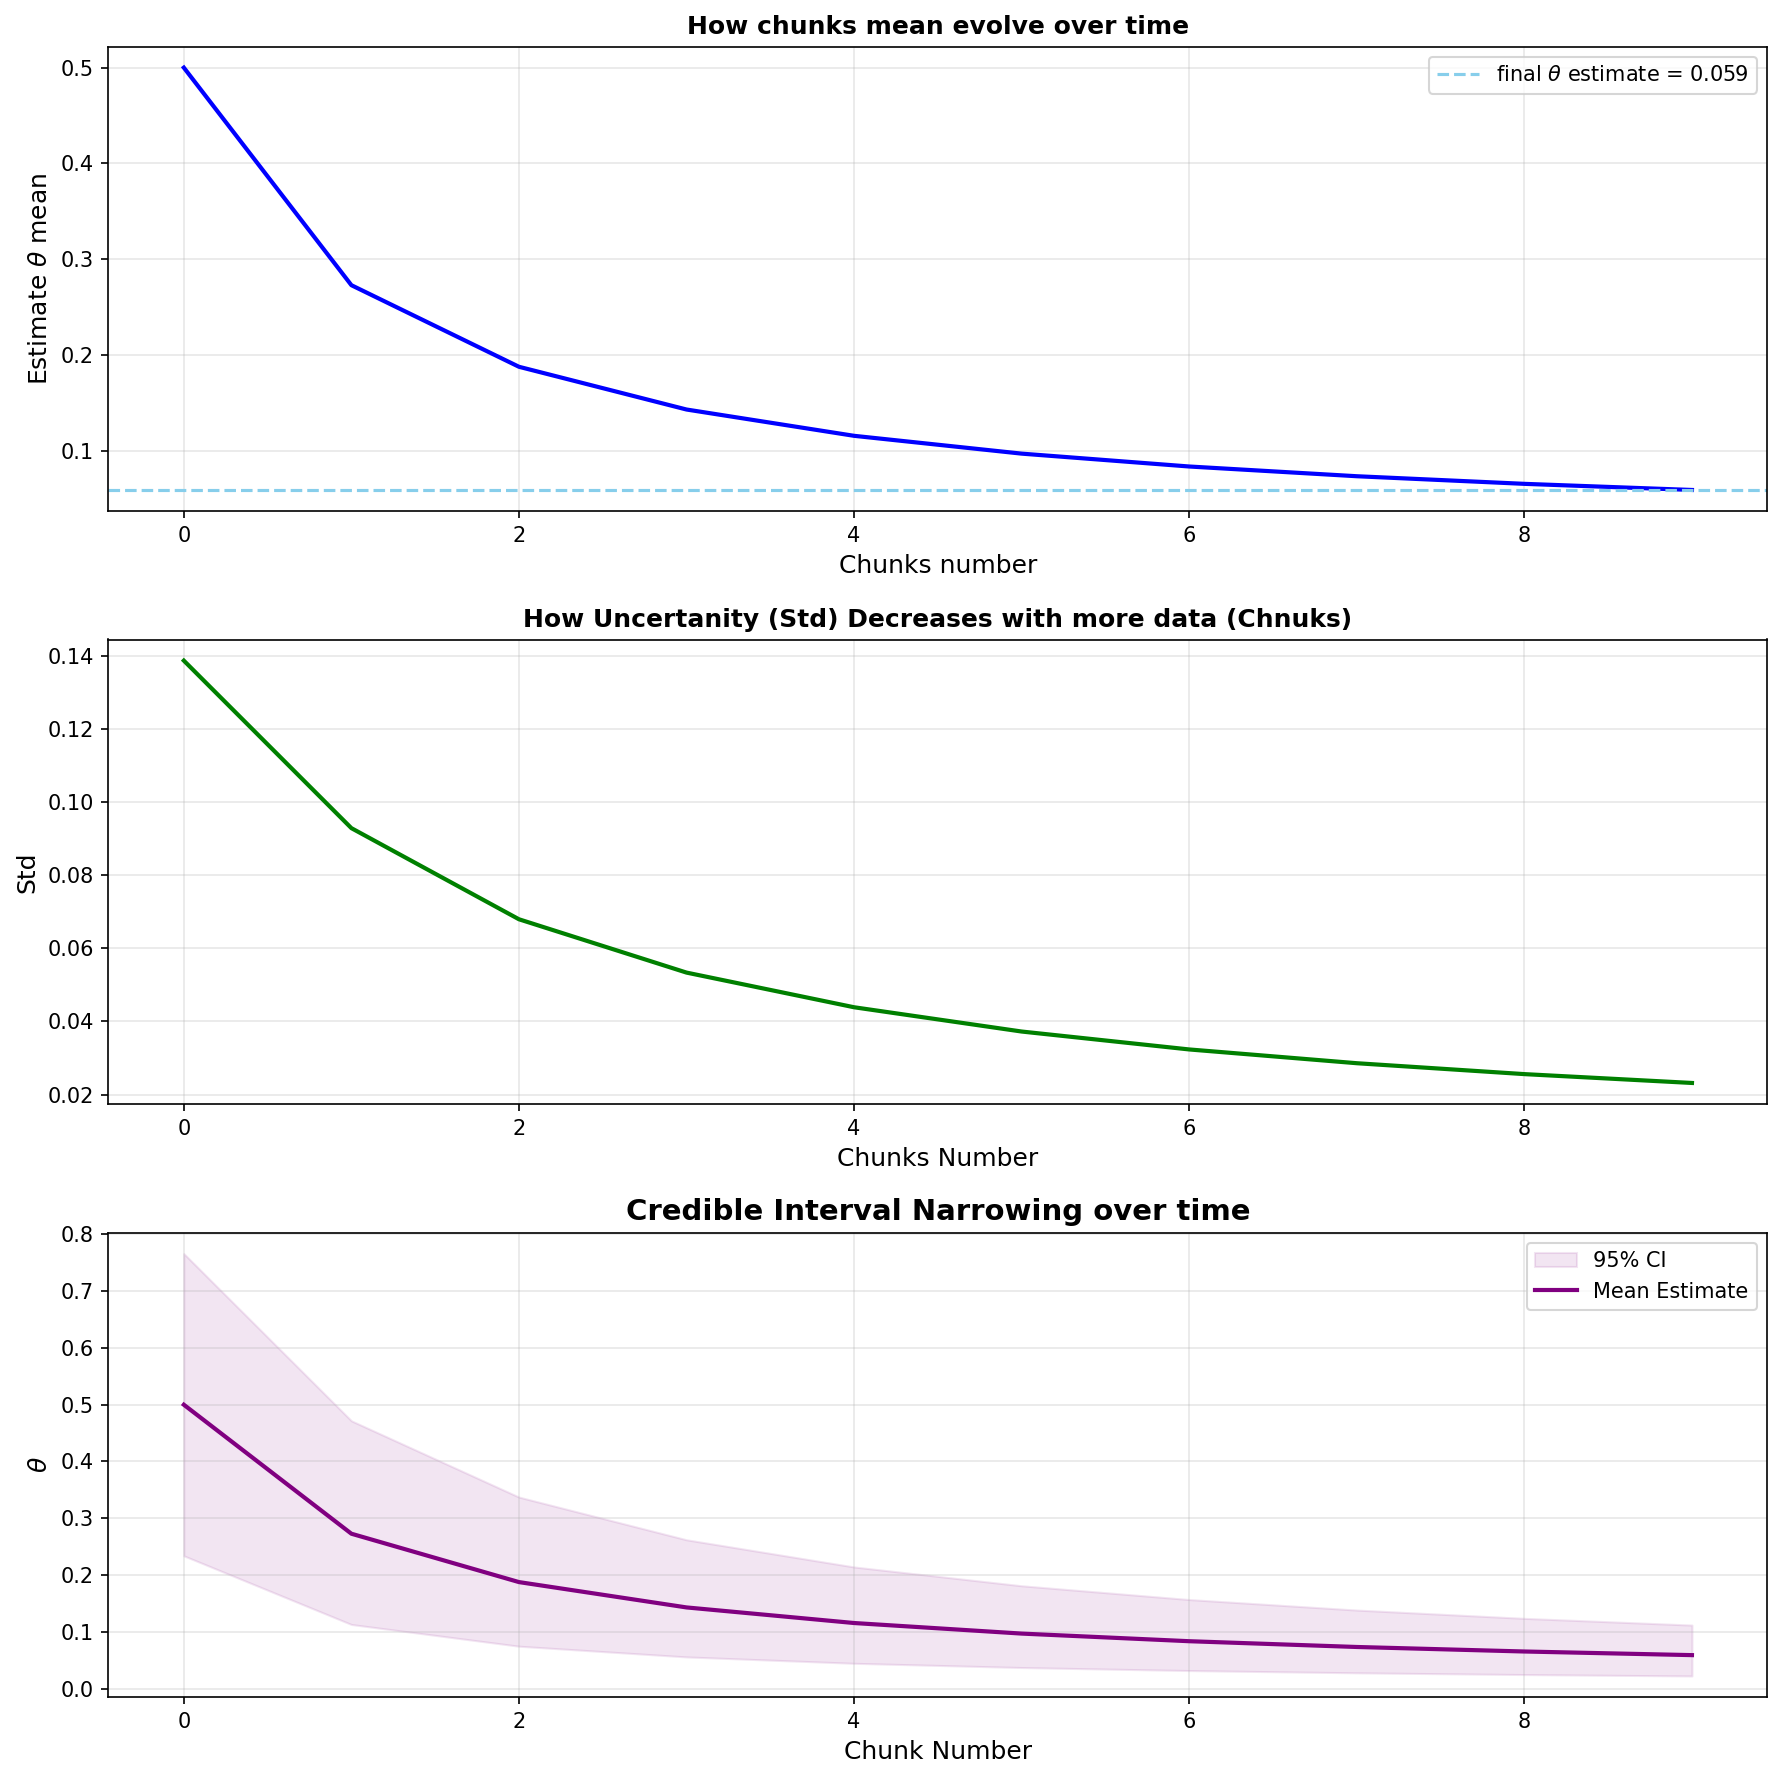
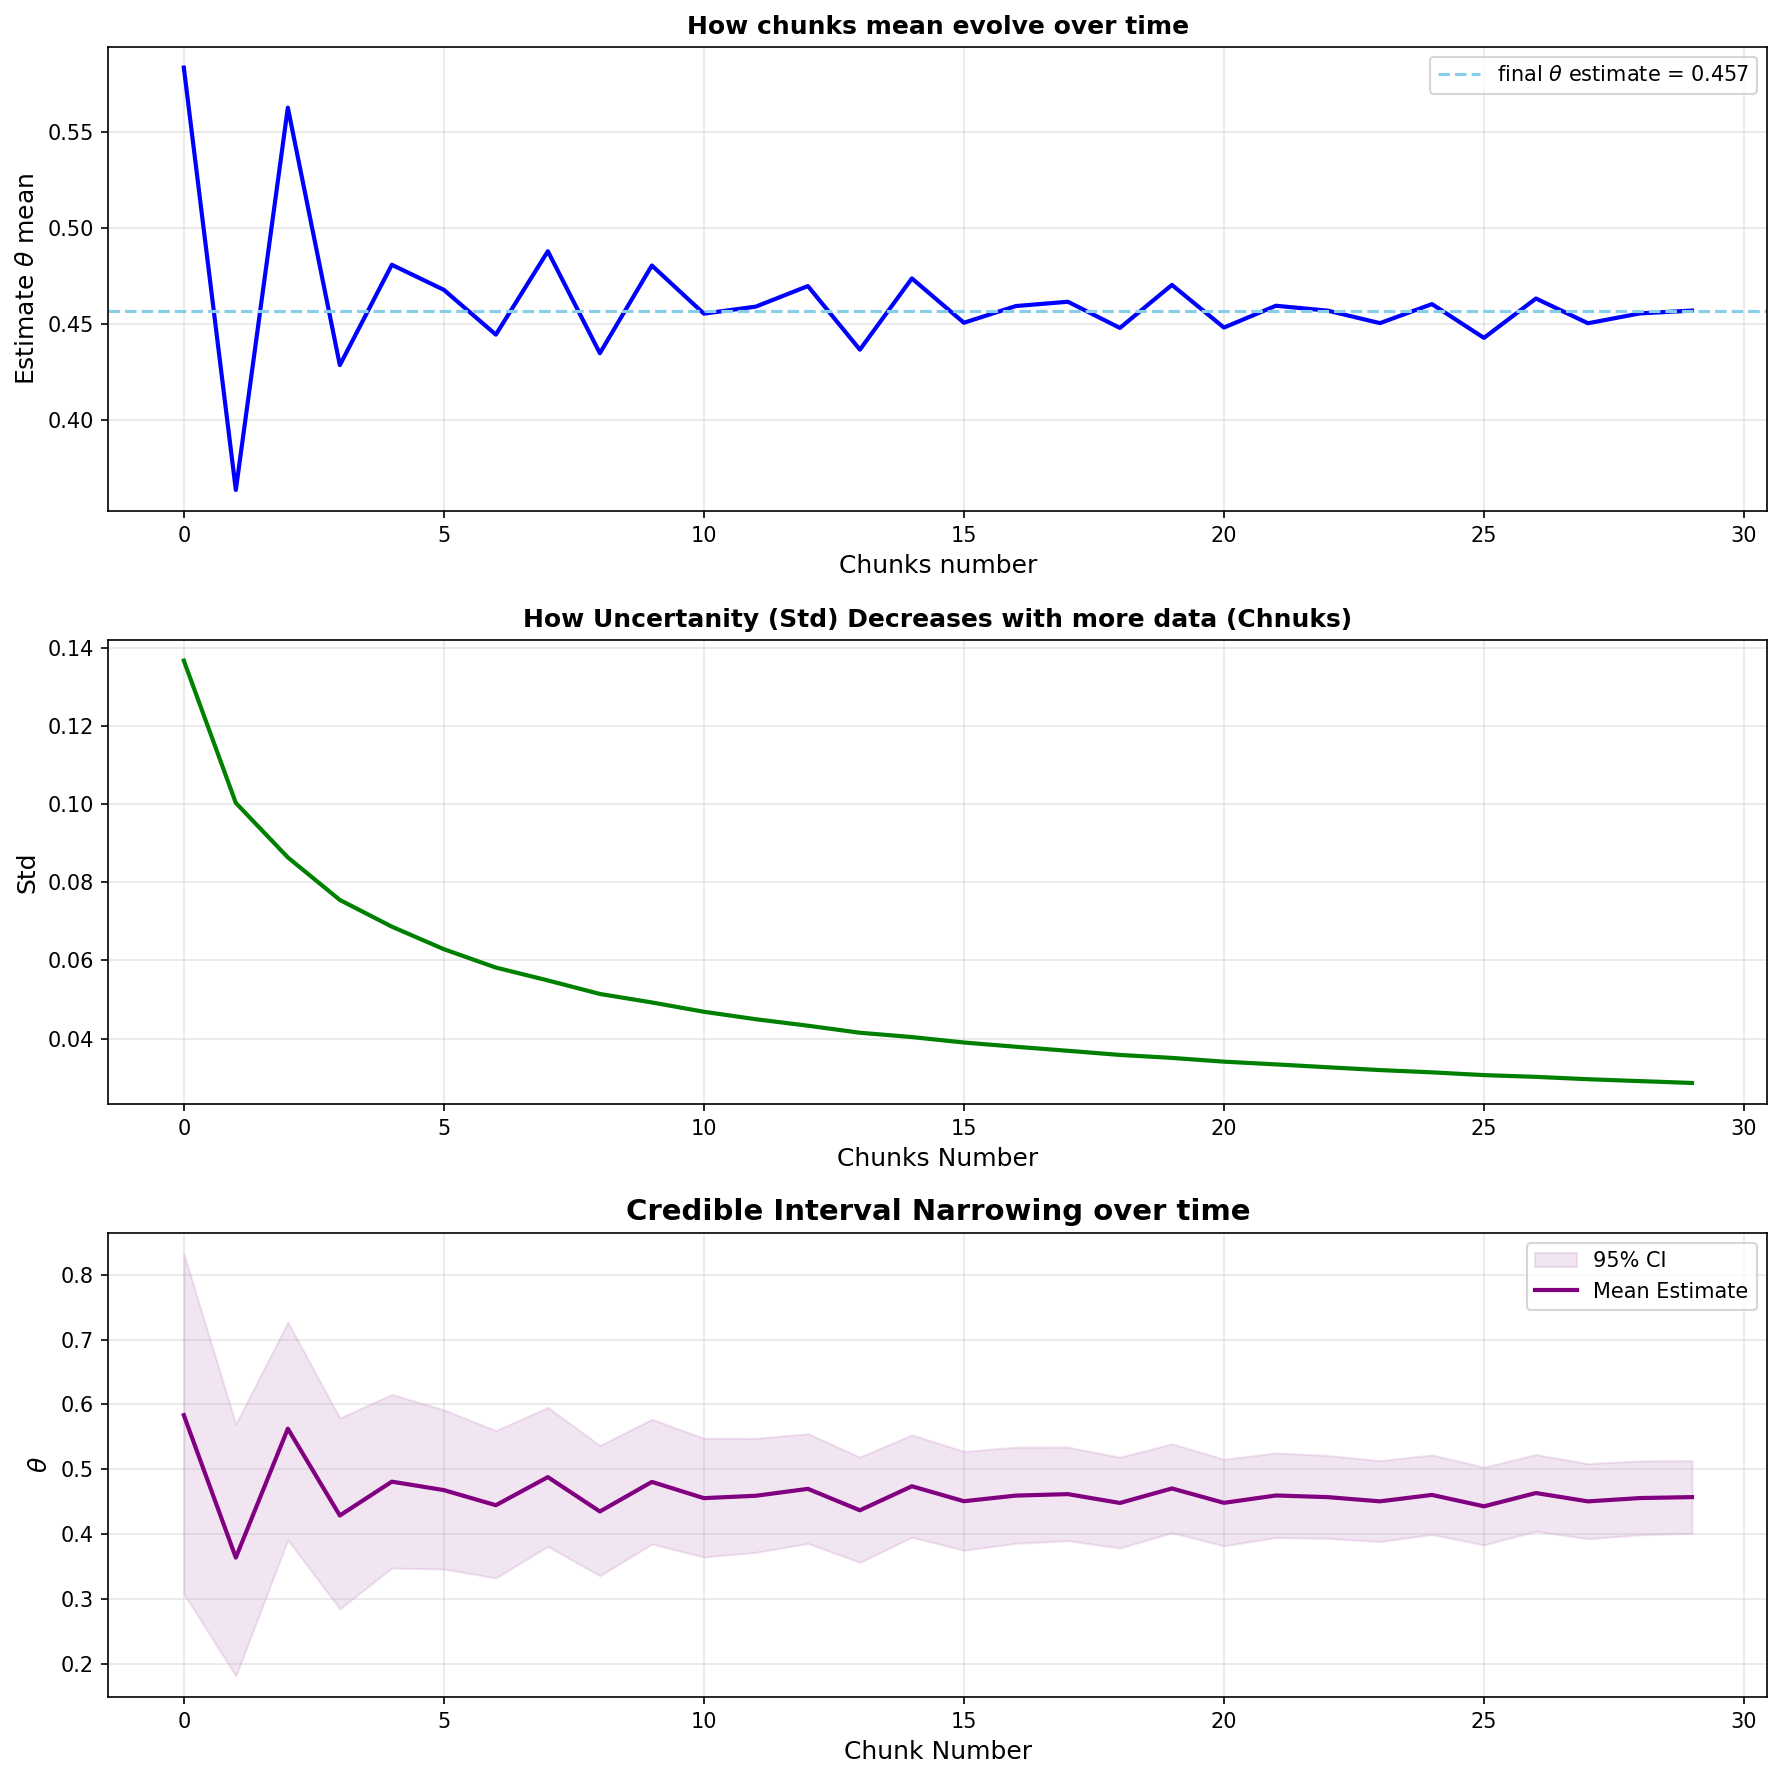
time-varying theta hvac

diff --git a/self-learning/bayesian/scripts/vis_ochre.py b/self-learning/bayesian/scripts/vis_ochre.py
@@ -1,0 +1,91 @@
+# %%
+import numpy as np
+import pandas as pd
+from pathlib import Path
+import matplotlib.pyplot as plt
+import matplotlib.ticker as ticker
+import bayesian_experiment as bay
+import sequential_bayesian as bayesian
+import time_changing_theta as theta_bayesian
+# %%
+with open ('./filtered_dataset.txt', 'r') as f:
+    input_paths = f.readlines()
+
+input_paths = [s.strip() for s in input_paths if s.strip()]
+input_path = f'/Users/midrar/projects/{Path(*input_paths[1].split("/")[3:])}'
+df = pd.read_csv (input_path, usecols=['Time', 'HVAC Heating Electric Power (kW)'])
+
+# df['Time'] = pd.to_datetime (df['Time']).dt.strftime ('%d %H:%M')
+df['Time'] = pd.to_datetime (df['Time'])
+
+def create_binary_states (df : pd.DataFrame) -> pd.DataFrame:
+    df['state'] = (df[df.columns[1]] >= 0.7).astype(int)
+    return df
+
+df = create_binary_states (df=df)
+
+theta_values = np.linspace (0.001, 0.999, 1000)
+
+history = theta_bayesian.initialize_history ()
+
+for hour in range(24):
+    print(df)
+    df_hour = df[df['Time'].dt.hour == hour]
+    alpha, beta_param = 1,1
+    H, T, n = theta_bayesian.prepare_data (df=df_hour)
+    alpha_post = alpha + H
+    beta_post = beta_param + T
+
+    stats = theta_bayesian.calculate_stats (alpha=alpha_post, beta_param=beta_post)
+    posterior = bay.calculate_posterior_conjugate (theta_values=theta_values,
+                                                   alpha_posterior=alpha_post,
+                                                   beta_posterior=beta_post)
+    history['hour'].append(hour)
+    history['H'].append(H)
+    history['T'].append(T)
+    history['alpha'].append(alpha_post)
+    history['beta'].append(beta_post)
+    history['theta_mean'].append(stats['mean'])
+    history['theta_std'].append(stats['std'])
+    history['ci_lower'].append(stats['ci_lower'])
+    history['ci_upper'].append(stats['ci_upper'])
+
+plt.figure(figsize=(12, 6))
+plt.plot(history['hour'], history['theta_mean'], linewidth=2)
+plt.xlabel('Hour of Day')
+plt.ylabel(r'$\theta$ (Probability of ON)')
+plt.fill_between (history['hour'], history['ci_lower'], history['ci_upper'] ,alpha=0.3)
+plt.title('Heating HVAC Activity Throughout the Day')
+plt.grid(True)
+plt.savefig ('./time-varying-theta_hvac.png', dpi=150)
+plt.show()
+
+# %%
+def hvac_sequential_bayesian ():
+    with open ('./filtered_dataset.txt', 'r') as f:
+        input_paths = f.readlines()
+
+    input_paths = [s.strip() for s in input_paths if s.strip()]
+    input_path = f'/Users/midrar/projects/{Path(*input_paths[1].split("/")[3:])}'
+    df = pd.read_csv (input_path, usecols=['Time', 'HVAC Heating Electric Power (kW)'])
+
+    df['Time'] = pd.to_datetime (df['Time']).dt.strftime ('%d %H:%M')
+
+    def create_binary_states (df : pd.DataFrame) -> pd.DataFrame:
+        df['state'] = (df[df.columns[1]] >= 0.7).astype(int)
+        return df
+
+    df = create_binary_states (df=df)
+
+    theta_values = np.linspace (0.001, 0.999, 1000)
+
+    window_size, num_chunks = 10, 30
+
+    history = bayesian.sequential_bayesian_implementation (theta_values=theta_values, df=df,
+                                                num_chunks=num_chunks,
+                                                window_size=window_size)
+
+
+    bayesian.plot_sequential_learning(history=history)
+    bayesian.plot_posterior_evolution (history=history)
+# %%

diff --git a/self-learning/bayesian/scripts/time_changing_theta.py b/self-learning/bayesian/scripts/time_changing_theta.py
@@ -78,8 +78,6 @@ if __name__ == '__main__':
     df['state'] = (df[df.columns[1]] > 4).astype(int)
     
     df['Time'] = pd.to_datetime(df['Time'])
-    
-    grouped = df.groupby(df['Time'].dt.day)
 
     theta_values = np.linspace (0.001, 0.999, 1000)
 
